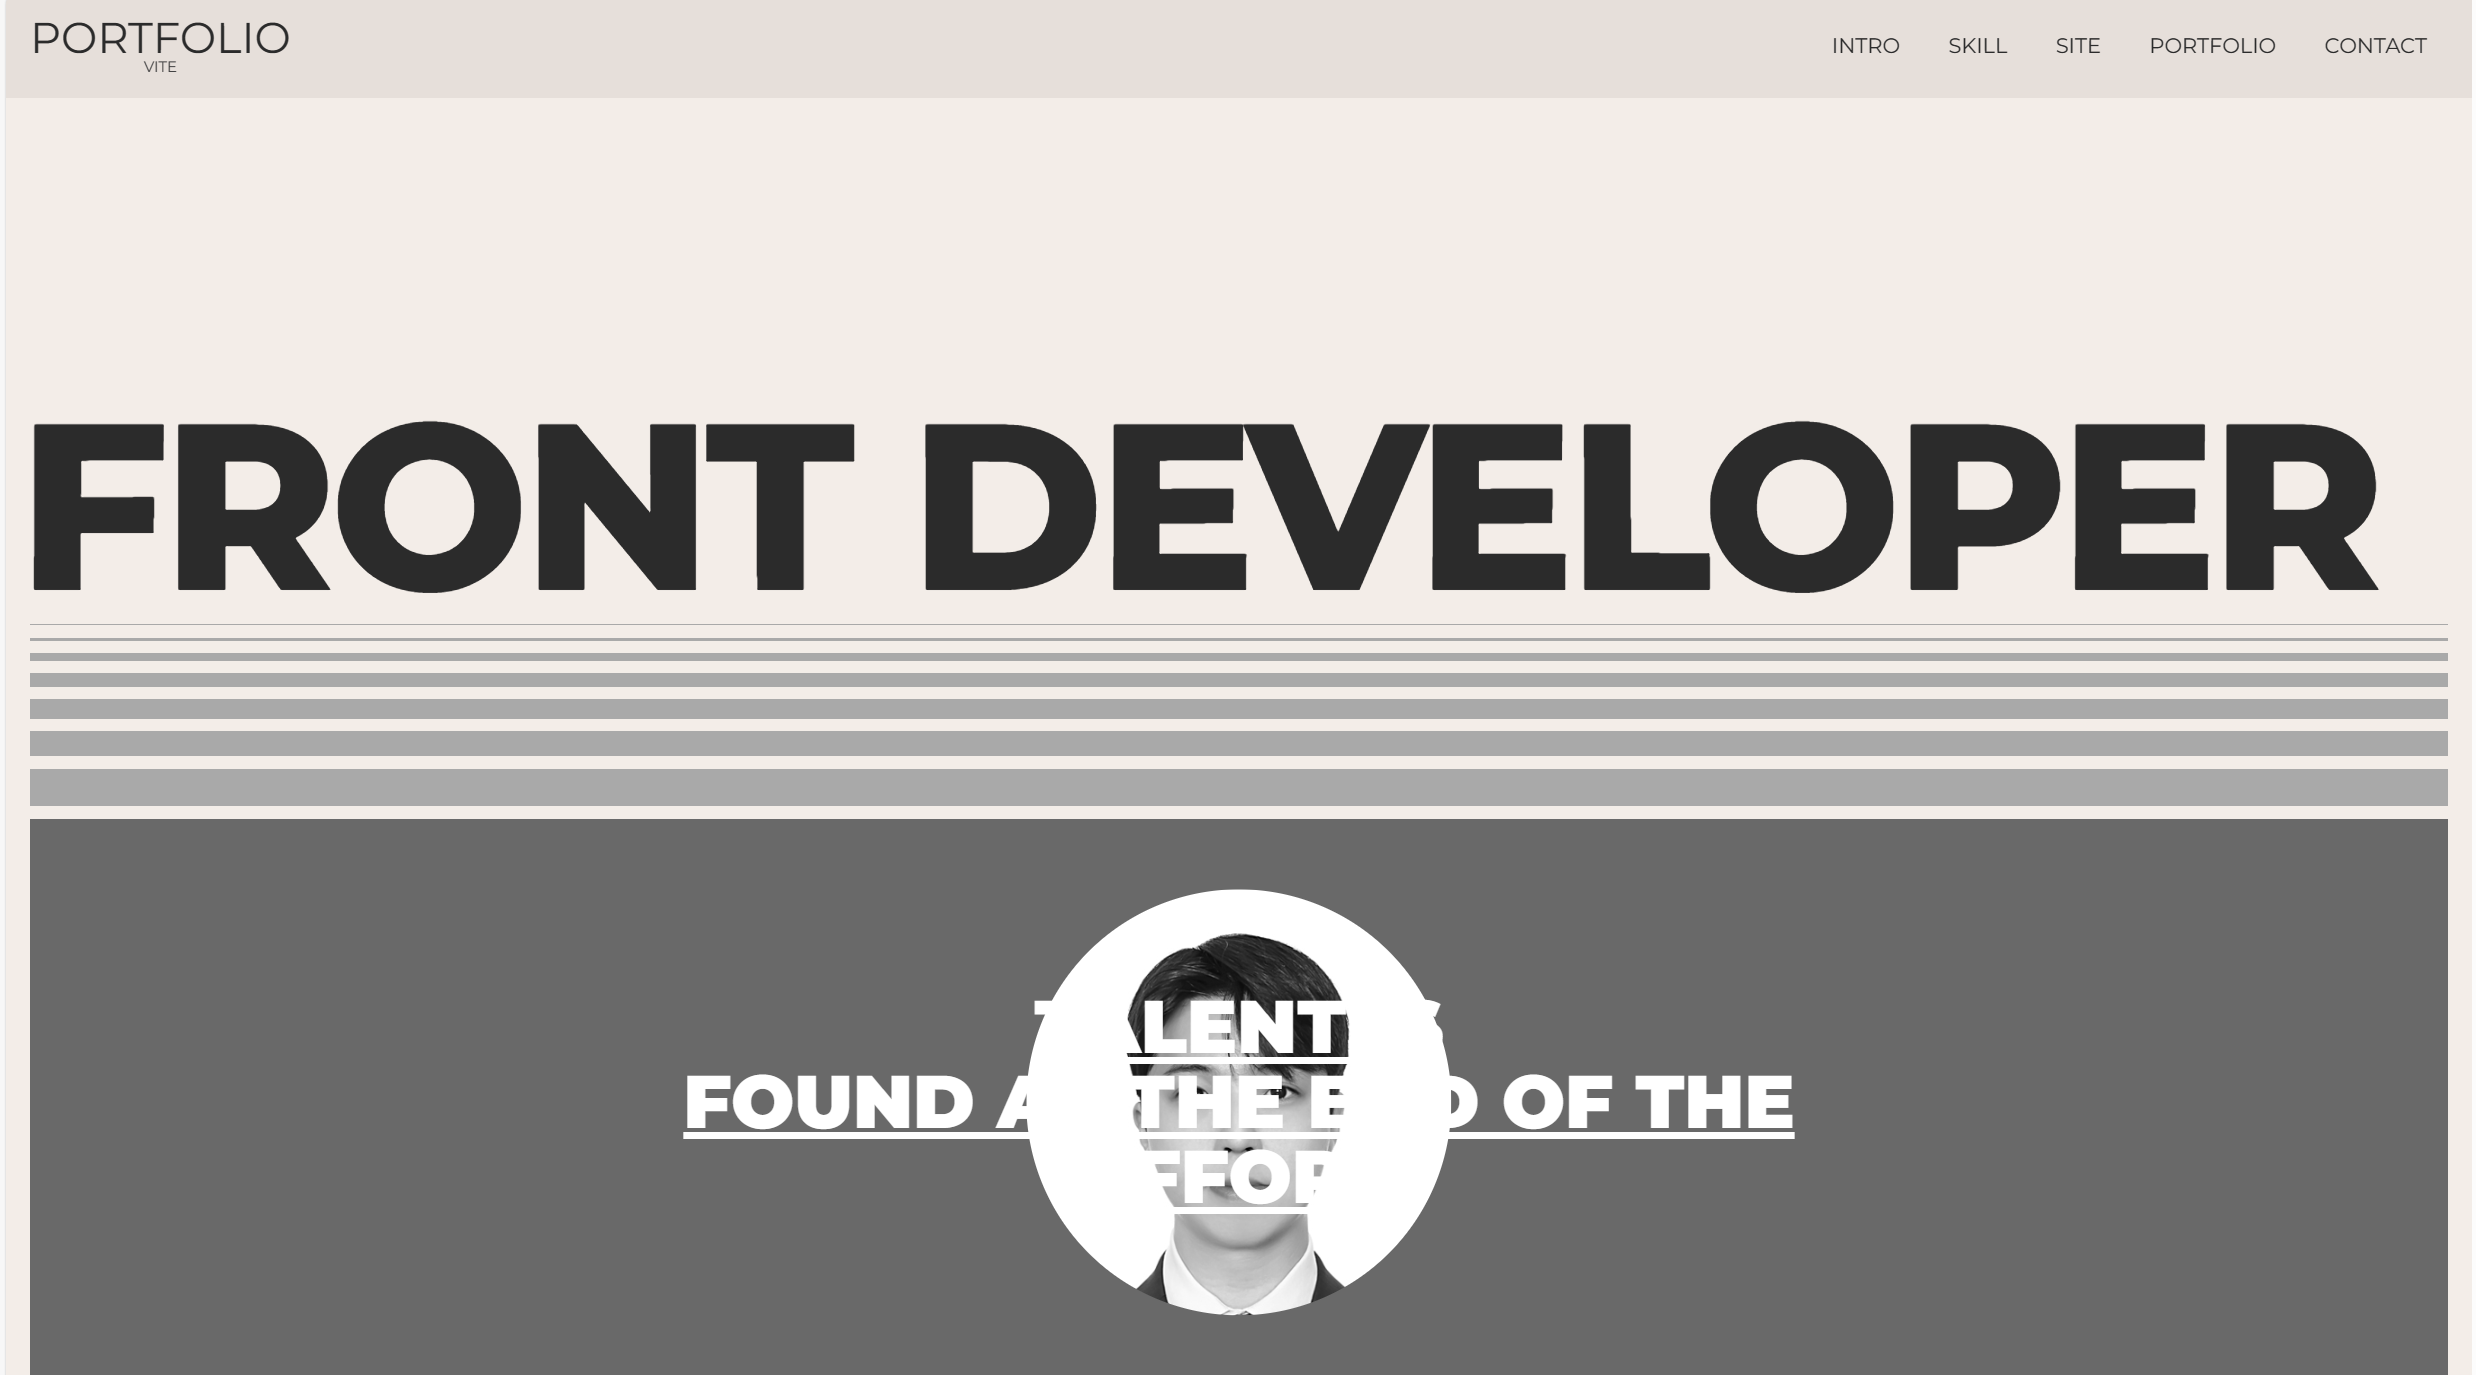
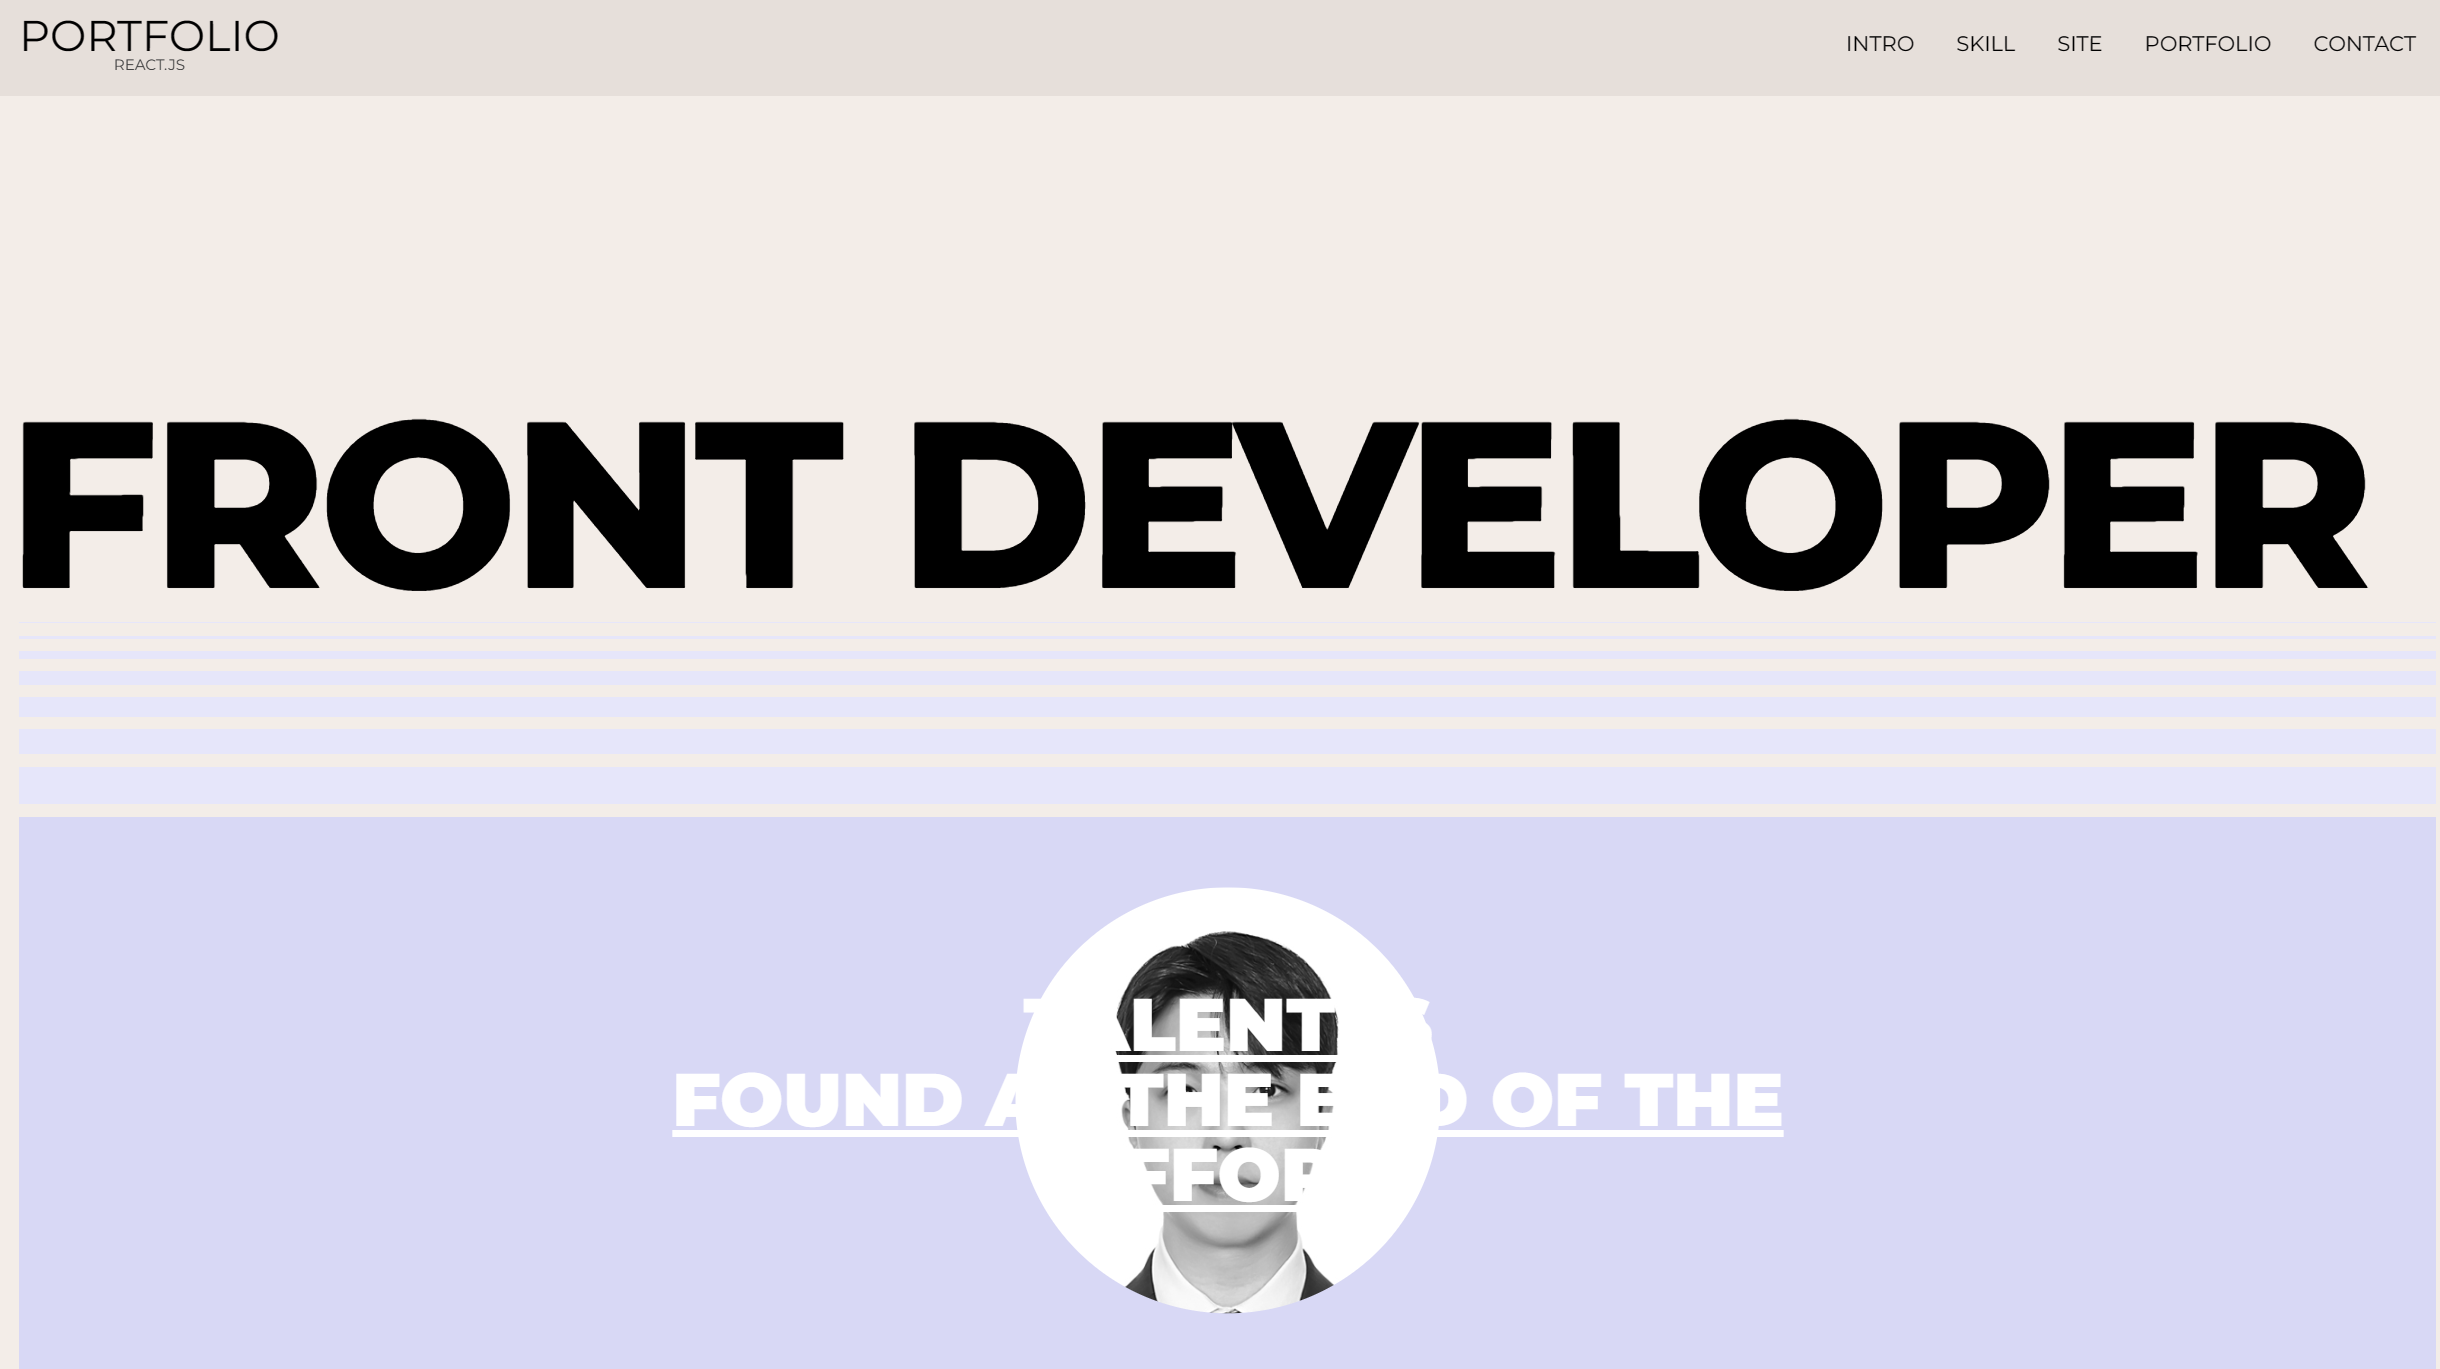
최종 수정

diff --git a/src/index.html b/src/index.html
@@ -250,12 +250,12 @@
 
                         <article class="port__item p4">
                             <span class="num">04.</span>
-                            <a href="https://github.com/jjongwann/port2023-vite" class="img" target="_blank">
+                            <a href="https://github.com/jjongwann/port2023-react" class="img" target="_blank">
                                 <img src="assets/img/portfolio.png" alt="포폴 사이트" />
                             </a>
-                            <h3 class="title">VITE 포트폴리오 사이트</h3>
+                            <h3 class="title">REACT 포트폴리오 사이트</h3>
                             <p class="desc">
-                                이 사이트는 VITE로 만든 포트폴리오 사이트입니다. vite를 사용하여 사이트를 번들링하고 관리하며, 
+                                이 사이트는 REACT로 만든 포트폴리오 사이트입니다. REACT를 사용하여 사이트를 번들링하고 관리하며, 
                                 gsap를 이용하여 패럴릭스 효과를 주고 lenis를 이용하여 스모스 효과를 구현하는 등 
                                 다양한 프레임워크를 활용한 사이트입니다.
                                 HTML, CSS 기반으로 웹사이트의 기본 레이아웃 설계하고, 웹 표준 및 웹 접근성을 준수하여 작업합니다.
